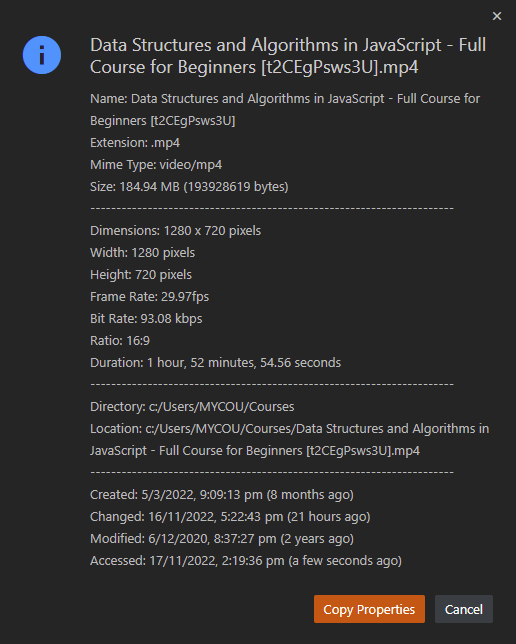
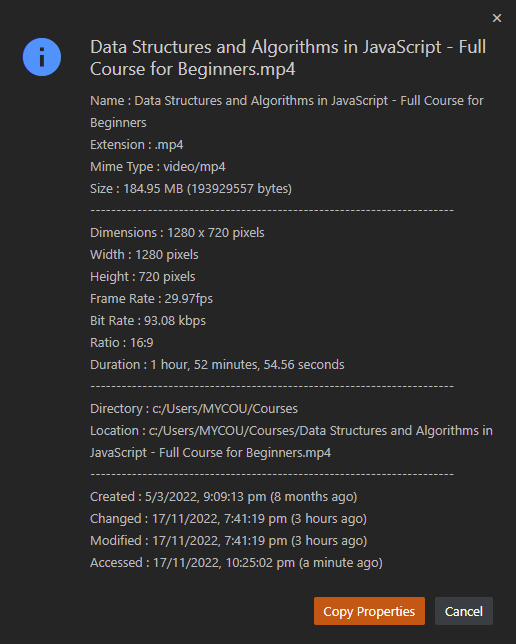
feat: Added cancel button

diff --git a/src/extension.ts b/src/extension.ts
@@ -1,7 +1,8 @@
-import * as vscode from 'vscode';
-import { Settings } from './Settings';
+/* eslint-disable @typescript-eslint/naming-convention */
 import * as humanizeDuration from "humanize-duration";
-import { convertBytes, formatDate, getAudioDetails, getImageDetails, getSelectionDetails, getStats, getVideoDetails, clean } from './helpers';
+import * as vscode from 'vscode';
+import { cleanEntries, convertBytes, formatDate, getAudioDetails, getImageDetails, getSelectionDetails, getStats, getVideoDetails } from './helpers';
+import { Settings } from './Settings';
 
 
 export function activate(context: vscode.ExtensionContext) {
@@ -14,85 +15,79 @@ export function activate(context: vscode.ExtensionContext) {
 			await vscode.window.withProgress({
 				location: vscode.ProgressLocation.Notification,
 				title: "Please wait...",
-			}, async () => {
+				cancellable: true
+			}, async (_progress, token) => {
 
 				const stats = await getStats(fsPath);
-
 				const selection = getSelectionDetails(fsPath);
-
 				const image = stats.mimeType.includes('image') ? getImageDetails(fsPath) : "";
-
 				const audio = stats.mimeType.includes('audio') ? await getAudioDetails(fsPath) : "";
-
 				const video = stats.mimeType.includes('video') ? await getVideoDetails(fsPath) : "";
 
-				const pathDetails = clean([
-					["Name", stats.name, stats.name],
-					["Extension", stats.extension, stats.isFile && stats.extension],
-					['Mime Type', stats.mimeType, stats.isFile],
-					["Size", convertBytes(stats.size), stats.size],
-					["Contains", `${stats.contains?.files} Files, ${stats.contains?.folders} Folders`, !stats.isFile && stats.contains]
-				]).join('\n');
+				const pathDetails = cleanEntries({
+					"Name": stats.name,
+					"Extension": stats.isFile && stats.extension,
+					"Mime Type": stats.isFile && stats.mimeType,
+					"Size": convertBytes(stats.size),
+					"Contains": !stats.isFile && stats.contains && `${stats.contains?.files} Files, ${stats.contains?.folders} Folders`,
+				}).map(([key, val]) => `${key} : ${val}`).join("\n");
 
-				const selectionDetails = selection ?
-					clean([
-						["Lines", selection.lines, Settings.selections.lines && selection.lines],
-						["Words", selection.words, Settings.selections.words && selection.words],
-						["Array Length", selection.data.arrayLength, Settings.selections.data && typeof selection.data.arrayLength !== 'undefined'],
-						["Object Size", selection.data.objectSize, Settings.selections.data && typeof selection.data.objectSize !== 'undefined'],
-						["Nodes", selection.data.nodes, Settings.selections.data && typeof selection.data.nodes !== 'undefined'],
-						["Child Nodes", selection.data.childNodes, Settings.selections.data && typeof selection.data.childNodes !== 'undefined'],
-					]).join(", ") : "";
+				const selectionDetails = cleanEntries(selection ? {
+					"Lines": Settings.selections.lines && selection.lines,
+					"Words": Settings.selections.words && selection.words,
+					"Array Length": Settings.selections.data && selection.data.arrayLength,
+					"Object Size": Settings.selections.data && selection.data.objectSize,
+					"Nodes": Settings.selections.data && selection.data.nodes,
+					"Child Nodes": Settings.selections.data && selection.data.childNodes,
+				} : {}).map(([key, val]) => `${key} : ${val}`).join(", ");
 
-				const imageDetails = image ?
-					clean([
-						["Dimensions", `${image?.width} x ${image?.height} pixels`, Settings.metaData.dimensions && typeof image.width !== 'undefined' && typeof image.height !== 'undefined'],
-						["Width", `${image?.width} pixels`, Settings.metaData.width && typeof image.width !== 'undefined'],
-						["Height", `${image?.height} pixels`, Settings.metaData.height && typeof image.height !== 'undefined'],
-					]).join('\n') : "";
+				const imageDetails = cleanEntries(image ? {
+					"Dimensions": Settings.metaData.dimensions && typeof image.width !== 'undefined' && typeof image.height !== 'undefined' && `${image?.width} x ${image?.height} pixels`,
+					"Width": Settings.metaData.width && typeof image.width !== 'undefined' && `${image?.width} pixels`,
+					"Height": Settings.metaData.height && typeof image.height !== 'undefined' && `${image?.height} pixels`,
+				} : {}).map(([key, val]) => `${key} : ${val}`).join("\n");
 
-				const audioDetails = audio ?
-					clean([
-						["Title", audio.title, Settings.metaData.title && audio.title],
-						["Album", audio.album, Settings.metaData.album && audio.album],
-						["Artist", audio.artist, Settings.metaData.artist && audio.artist],
-						["Composer", audio.composer, Settings.metaData.composer && audio.composer],
-						["Genre", audio.genre, Settings.metaData.genre && audio.genre],
-						["Bit Rate", convertBytes(audio.bitRate, ['bps', 'kbps', 'mbps'], false), Settings.metaData.bitRate && audio.bitRate],
-						["Channels", audio.channels, Settings.metaData.channels && audio.channels],
-						["Year", audio.year, Settings.metaData.year && audio.year],
-						["Duration", humanizeDuration(audio.duration * 1000, { maxDecimalPoints: 2 }), Settings.metaData.duration && audio.duration],
-					]).join('\n') : "";
+				const audioDetails = cleanEntries(audio ? {
+					"Title": Settings.metaData.title && audio.title,
+					"Album": Settings.metaData.album && audio.album,
+					"Artist": Settings.metaData.artist && audio.artist,
+					"Composer": Settings.metaData.composer && audio.composer,
+					"Genre": Settings.metaData.genre && audio.genre,
+					"Bit Rate": Settings.metaData.bitRate && audio.bitRate && convertBytes(audio.bitRate, ['bps', 'kbps', 'mbps'], false),
+					"Channels": Settings.metaData.channels && audio.channels,
+					"Year": Settings.metaData.year && audio.year,
+					"Duration": Settings.metaData.duration && typeof audio.duration !== 'undefined' && humanizeDuration(audio.duration * 1000, { maxDecimalPoints: 2 }),
+				} : {}).map(([key, val]) => `${key} : ${val}`).join("\n");
 
-				const videoDetails = video ?
-					clean([
-						["Dimensions", `${video?.width} x ${video?.height} pixels`,  Settings.metaData.dimensions && typeof video.width !== 'undefined' && typeof video.height !== 'undefined'],
-						["Width", `${video?.width} pixels`,  Settings.metaData.width && typeof video.width !== 'undefined'],
-						["Height", `${video?.height} pixels`,  Settings.metaData.height && typeof video.height !== 'undefined'],
-						["Frame Rate", `${video.frameRate}fps`,  Settings.metaData.frameRate && video.frameRate],
-						["Bit Rate", convertBytes(video.bitRate, ['bps', 'kbps', 'mbps'], false),  Settings.metaData.bitRate && video.bitRate],
-						["Ratio", video.ratio,  Settings.metaData.ratio && video.ratio],
-						["Duration", humanizeDuration(video.duration * 1000, { maxDecimalPoints: 2 }), Settings.metaData.duration && video.duration],
-					]).join('\n') : "";
+				const videoDetails = cleanEntries(video ? {
+					"Dimensions": Settings.metaData.dimensions && typeof video.width !== 'undefined' && typeof video.height !== 'undefined' && `${video?.width} x ${video?.height} pixels`,
+					"Width": Settings.metaData.width && typeof video.width !== 'undefined' && `${video?.width} pixels`,
+					"Height": Settings.metaData.height && typeof video.height !== 'undefined' && `${video?.height} pixels`,
+					"Frame Rate": Settings.metaData.frameRate && video.frameRate && `${video.frameRate}fps`,
+					"Bit Rate": Settings.metaData.bitRate && video.bitRate && convertBytes(video.bitRate, ['bps', 'kbps', 'mbps'], false),
+					"Ratio": Settings.metaData.ratio && video.ratio,
+					"Duration": Settings.metaData.duration && typeof video.duration !== 'undefined' && humanizeDuration(video.duration * 1000, { maxDecimalPoints: 2 }),
+				} : {}).map(([key, val]) => `${key} : ${val}`).join("\n");
 
-				const locationDetails = clean([
-					['Workspace', stats.workspace?.fsPath, Settings.paths.relativeToRoot && Settings.paths.workspace && stats.workspace?.fsPath],
-					['Directory', stats.directory, Settings.paths.directory && stats.directory],
-					['Location', stats.location, Settings.paths.location && stats.location],
-				]).join('\n');
+				const locationDetails = cleanEntries({
+					"Workspace": Settings.paths.relativeToRoot && stats.workspace?.fsPath,
+					"Directory": Settings.paths.directory && stats.directory,
+					"Location": Settings.paths.location && stats.location,
+				}).map(([key, val]) => `${key} : ${val}`).join("\n");
 
-				const timestampDetails = clean([
-					['Created', formatDate(stats.created), Settings.timeStamps.createdTimestamp && stats.created],
-					['Changed', formatDate(stats.changed), Settings.timeStamps.changedTimestamp && stats.changed],
-					['Modified', formatDate(stats.modified), Settings.timeStamps.modifiedTimestamp && stats.modified],
-					['Accessed', formatDate(stats.accessed), Settings.timeStamps.accessedTimestamp && stats.accessed]
-				]).join('\n');
+				const timestampDetails = cleanEntries({
+					"Created": Settings.timeStamps.createdTimestamp && stats.created && formatDate(stats.created),
+					"Changed": Settings.timeStamps.changedTimestamp && stats.changed && formatDate(stats.changed),
+					"Modified": Settings.timeStamps.modifiedTimestamp && stats.modified && formatDate(stats.modified),
+					"Accessed": Settings.timeStamps.accessedTimestamp && stats.accessed && formatDate(stats.accessed),
+				}).map(([key, val]) => `${key} : ${val}`).join("\n");
+
 
 				const result = [pathDetails, selectionDetails, imageDetails, audioDetails, videoDetails, locationDetails, timestampDetails]
 					.filter(Boolean)
 					.join('\n----------------------------------------------------------------------\n');
 
-				vscode.window.showInformationMessage(stats.fileName, { modal: true, detail: result }, `Copy ${Settings.copyAction}`)
+				!token.isCancellationRequested && vscode.window.showInformationMessage(stats.fileName, { modal: true, detail: result }, `Copy ${Settings.copyAction}`)
 					.then(action => {
 						if (action) {
 							const copyText = Settings.copyAction === "Properties" ? `${stats.fileName}\n\n${result}` : stats.location;

diff --git a/src/helpers.ts b/src/helpers.ts
@@ -1,31 +1,33 @@
 import * as dateformat from "dateformat";
+import * as ffmpeg from 'fluent-ffmpeg';
 import * as fs from "fs";
 import * as fsProm from "fs/promises";
-import { getVideoDurationInSeconds } from 'get-video-duration';
 import imageSize from "image-size";
 import * as mime from "mime";
 import * as moment from "moment";
-import * as musicmetadata from 'musicmetadata';
 import * as path from "path";
 import * as vscode from 'vscode';
 import * as DataDetails from './DataDetails';
 import { Settings } from './Settings';
-import * as  ffmpeg from 'fluent-ffmpeg';
 const ffprobe = require('@ffprobe-installer/ffprobe');
-
 ffmpeg.setFfprobePath(ffprobe.path);
 
 // Converts the file size from Bytes to KB | MB | GB | TB
 export const convertBytes = (bytes: number, sizes = ['Bytes', 'KB', 'MB', 'GB', 'TB'], showBytes = true): string => {
-  if (bytes === 0) return 'n/a';
+  if (bytes === 0) return '0 bytes';
   const i = Math.floor(Math.log(bytes) / Math.log(1024));
   if (i === 0) return bytes + ' ' + sizes[i];
   return (bytes / Math.pow(1024, i)).toFixed(2) + ' ' + sizes[i] + (showBytes ? ` (${bytes} bytes)` : "");
 };
 
-export const clean = (list: any[]) => {
-  return list.filter(([_key, _val, show]) => show)
-    .map(([key, val]) => `${key}: ${val}`);
+export const cleanEntries = (object: Object) => {
+  return Object.entries(object)
+    .filter(([_key, val]) =>
+      typeof val !== 'undefined'
+      && val !== false
+      && `${val}`.length !== 0
+      && `${val}` !== 'undefined'
+    );
 };
 
 const getDeepStats = async (fsPath: string): Promise<fs.Stats[]> => {
@@ -166,10 +168,9 @@ export const getAudioDetails = async (audioPath: string) => {
       year: tags.date,
       duration: metaData.format.duration || 0,
       bitRate: metaData.format.bit_rate || 0,
-      channels: audio.channel_layout ? `${audio.channels} (${audio.channel_layout})` : audio.channels,
+      channels: typeof audio.channels !== 'undefined' ? audio.channel_layout ? `${audio.channels} (${audio.channel_layout})` : audio.channels : "",
     };
   } catch (error: any) {
-    console.error(error.message);
     return undefined;
   }
 };
@@ -188,7 +189,6 @@ export const getVideoDetails = async (videoPath: string) => {
       ratio: video.display_aspect_ratio
     };
   } catch (error: any) {
-    console.error(error.message);
     return undefined;
   }
 };

diff --git a/README.md b/README.md
@@ -2,15 +2,15 @@
 
 Get file or Folder Properties.
 
-- File Name and Extension.
-- File or Folder size.
-- Mime Type.
-- Number of selected `lines`, `words`, `object size`, `array length`, `nodes count`.
-- Number of files and folders inside folder properties.
-- Image dimensions. `width` x `height`.
-- File or Folder `Directory` and `Location` of a file or folder.
-- Audio `title`, `album`, `artist`, `genre`, `year`, `duration`.
-- Video `duration`.
+- File `Name` and `Extension`.
+- File or Folder `Size`.
+- File `Mime Type`.
+- Number of selected `Lines`, `Words`, `Object Size`, `Array Length`, `Nodes`, `Child Nodes`.
+- Folders `Contains`.
+- Image `Dimensions`, `Width`, `Height`.
+- File or Folder `Workspace`, `Directory` and `Location`.
+- Audio `Title`, `Album`, `Artist`, `Composer`, `Genre`, `Bit Rate`, `Channels`, `Year`, `Duration`.
+- Video `Dimensions`, `Width`, `Height`, `Frame Rate`, `Bit Rate`, `Ratio`, `Duration`.
 - Timestamp of `created`, `changed`, `modified`, `accessed` with relative timestamp .
 - Copy properties or location
 
@@ -43,8 +43,9 @@ Get file or Folder Properties.
 
 - Set custom timestamp using `properties.settings.dateTimeFormat`. For more date time formate please click [here](https://www.npmjs.com/package/dateformat#mask-options)
 - We can change copy action in setting using `properties.settings.copyAction` to `Location` to copy only file or folder path.
-- The selection details may not show if the current active file size is greater than `20mb` due to vscode limitations. 
+- The selection details may not show if the current active file size is greater than `20mb` due to vscode limitations.
 - The `Extension` and `Mime Type` will only show to file properties and will be hidden in folder properties
+- Show or Hide any audio, video and image properties using `properties.settings.metaData` in vscode settings.
 
 ## Author
 

diff --git a/CHANGELOG.md b/CHANGELOG.md
@@ -1,5 +1,13 @@
 # Change Log
 
+## [v9.0.0]
+
+- Added cancel button for a long running script.
+
+## [v8.0.0]
+
+- Added more audio and video properties
+
 ## [v7.0.0]
 
 - Fix - Properties not showing for files that are opened outer workspace folder issue fixed
